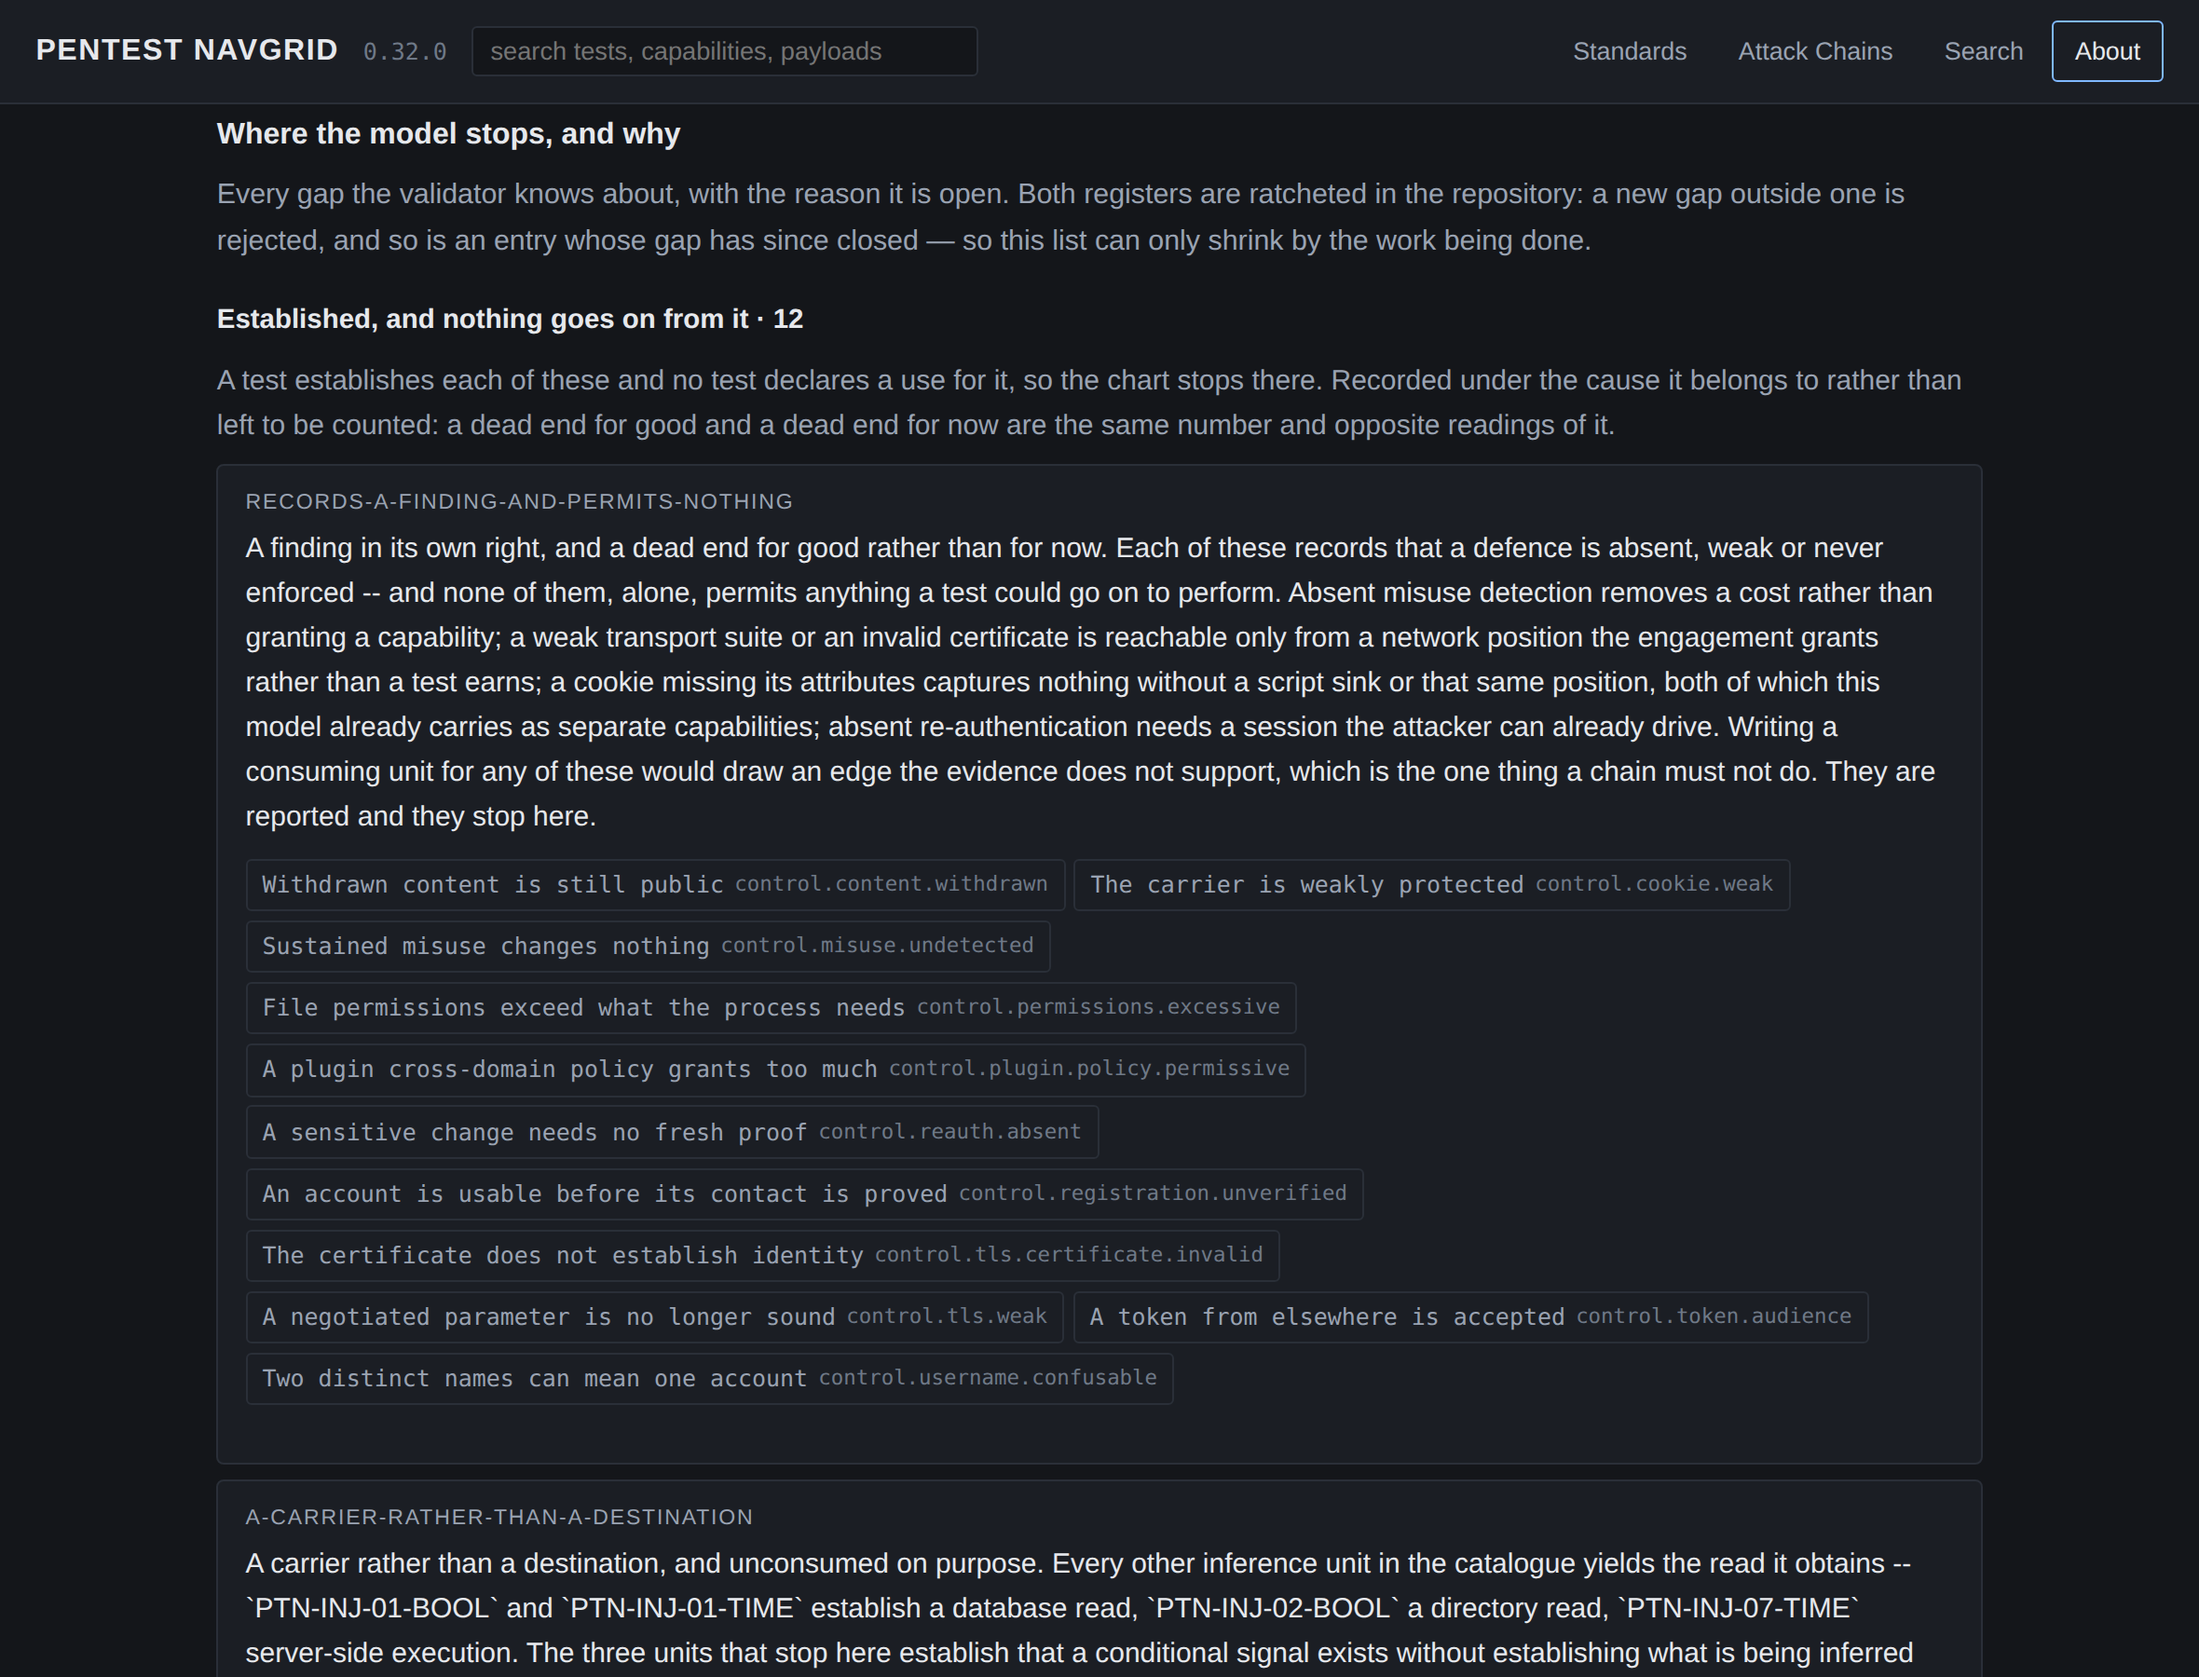
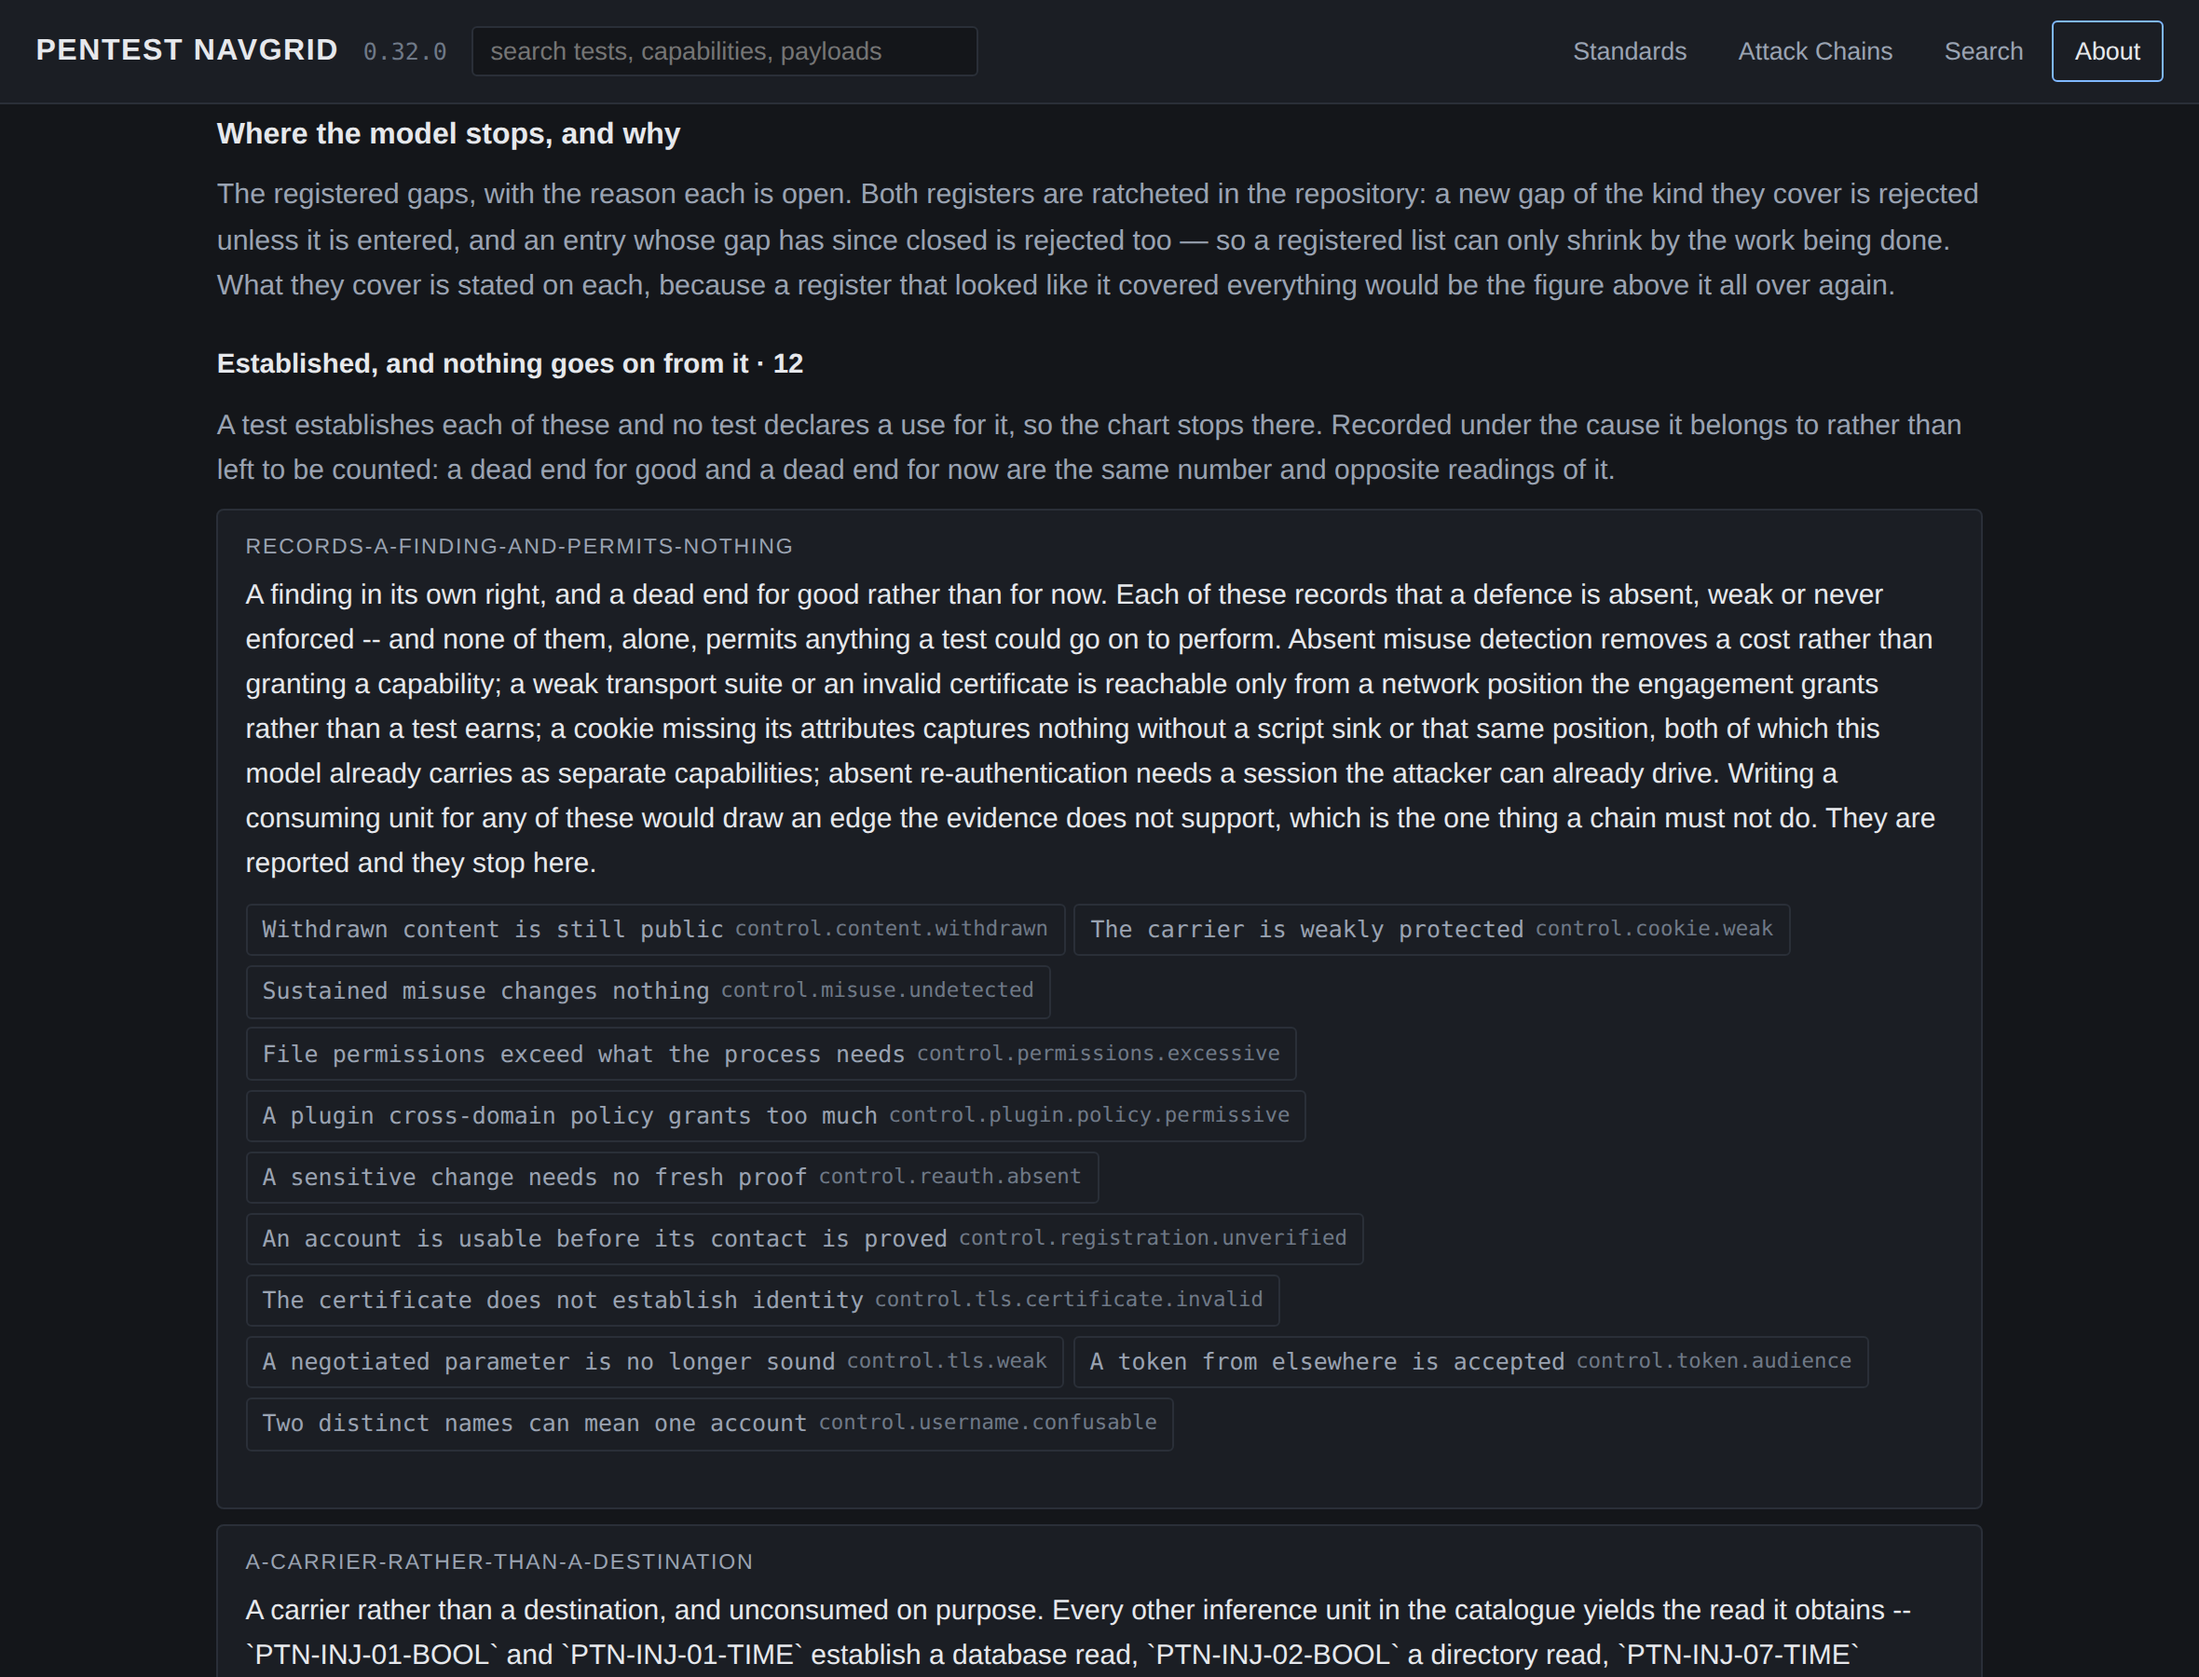
fix(status): scope the gap claim to what the registers actually cover
The section said it showed every gap the validator knows about. The
`unconsumed` gate ratchets chain-tier facts, because the tier is what says an
edge through a capability is an escalation -- so 8 of the 20 dead ends counted
two tables above it are topic-tier and outside the register entirely. A reader
met 20 and was shown 12, with nothing said about the difference.

That is the defect this whole section was written to remove -- a number nobody
can interrogate -- reproduced one level up by the copy that introduced it.

Both halves are fixed. The claim now says the registered gaps and states what
each register covers. The remainder is derived on the page rather than left to
be found by subtracting one number from another, and carries the smaller claim
its tier already makes: a topic-tier fact is consumed inside the topic that
produces it, so one nothing consumes is a technique whose result no sibling
declares rather than a chain that stopped. That it is not ratcheted is stated
where it is listed.

The suite asserts the two groups partition the published figure exactly, which
is the guard that stops the same gap opening again with a different number.

The README carried the same sentence and is corrected with it, and the figure
is retaken because the wording in it was the wording being fixed.

diff --git a/pentest_navgrid/artefact/app.js b/pentest_navgrid/artefact/app.js
@@ -3059,11 +3059,49 @@
     });
     if (!sections.length) return "";
     return "<h3>Where the model stops, and why</h3>" +
-      '<p class="lede">Every gap the validator knows about, with the reason it is ' +
-      "open. Both registers are ratcheted in the repository: a new gap outside one " +
-      "is rejected, and so is an entry whose gap has since closed — so this list " +
-      "can only shrink by the work being done.</p>" +
-      sections.join("");
+      '<p class="lede">The registered gaps, with the reason each is open. Both ' +
+      "registers are ratcheted in the repository: a new gap of the kind they cover " +
+      "is rejected unless it is entered, and an entry whose gap has since closed is " +
+      "rejected too — so a registered list can only shrink by the work being done. " +
+      "What they cover is stated on each, because a register that looked like it " +
+      "covered everything would be the figure above it all over again.</p>" +
+      sections.join("") + unregisteredStops();
+  };
+
+  /* The dead ends the register above does not cover, and the reason it does not.
+
+     The count two tables up is every capability no test uses; the register
+     explains the chain-tier ones. Printing the first beside the second and
+     saying nothing about the difference is exactly the defect this section was
+     written to remove -- a number the reader cannot interrogate -- reproduced
+     one level up. So the remainder is derived here rather than described, and
+     what it means is the smaller claim the tier already carries. */
+  var unregisteredStops = function () {
+    var listed = {};
+    REGISTERS.forEach(function (r) {
+      (D[r.key] || []).forEach(function (entry) {
+        (entry.facts || []).forEach(function (f) { listed[f] = true; });
+      });
+    });
+    var rest = (D.deadEnds || []).filter(function (f) { return !own(listed, f); });
+    if (!rest.length) return "";
+    var tiers = {};
+    rest.forEach(function (f) {
+      var tier = (get(D.facts, f) || {}).tier || "unlabelled";
+      tiers[tier] = true;
+    });
+    return "<h4>Established, and not covered by that register · " + rest.length + "</h4>" +
+      '<p class="muted">The register above ratchets the capabilities whose tier says ' +
+      "an edge through them is an escalation. These are " +
+      Object.keys(tiers).sort().join(" and ") + "-tier: consumed inside the topic " +
+      "that produces them, where the join links alternative techniques for one test " +
+      "rather than leading anywhere new. One nothing consumes is a smaller claim " +
+      "than a chain that stopped, and it is not ratcheted — which is stated here " +
+      "rather than left to be discovered by subtracting one number from another.</p>" +
+      '<div class="chips">' + rest.map(function (f) {
+        return '<a class="chip" href="' + href("capability", f) + '">' +
+          esc(factLabel(f)) + '<span class="c">' + esc(f) + "</span></a>";
+      }).join("") + "</div>";
   };
 
   var viewStatus = function () {

diff --git a/tests/test_artefact_ui.py b/tests/test_artefact_ui.py
@@ -2132,6 +2132,41 @@ class TheBuiltFileWorksInABrowser(unittest.TestCase):
                 for fid in entry["facts"]:
                     self.assertShows(flat, fid)
 
+    def test_every_capability_the_figure_counts_is_accounted_for_below_it(self):
+        """The defect this is written against, which is the one this whole
+        section exists to remove, reproduced one level up.
+
+        The table says 20 capabilities no test uses. The register explains the
+        chain-tier ones, because that is the only tier its gate ratchets, and
+        the copy above it claimed to explain every gap — so a reader met 20 and
+        was shown 12, with nothing said about the difference. The remainder is
+        derived on the page now, and this asserts the two groups partition the
+        figure exactly rather than merely both being present.
+        """
+        registered = {f for e in self.data["unconsumed"] for f in e["facts"]}
+        dead = set(self.data["deadEnds"])
+        rest = dead - registered
+        self.assertTrue(registered and rest, "one of the groups is empty here")
+        self.assertEqual(registered | rest, dead)
+
+        page = self.open("#/status")
+        flat = " ".join(self.driver.text().split())
+        self.assertShows(flat, "Established, and not covered by that register · "
+                               + str(len(rest)))
+        for fid in sorted(rest):
+            with self.subTest(fact=fid):
+                self.assertGreaterEqual(
+                    page.locator('a.chip[href="#/capability/' + fid + '"]').count(), 1
+                )
+
+    def test_the_page_does_not_claim_the_registers_cover_every_gap(self):
+        """They cover the tiers their gates ratchet, and saying otherwise is
+        the same false figure in words."""
+        flat = " ".join(self.text("#/status").split()).lower()
+        self.assertNotIn("every gap the validator knows about", flat)
+        # And the tier that is not ratcheted says so where it is listed.
+        self.assertShows(flat, "it is not ratcheted")
+
     def test_the_two_registers_are_reported_apart_from_each_other(self):
         """They answer opposite questions -- nothing goes on from here, and
         nothing arrives here yet -- so one list carrying both would leave a

diff --git a/README.md b/README.md
@@ -184,14 +184,17 @@ through one of a test's conditions and leaves the rest outstanding. It is a
 statement about what this file charts, never about a target.
 
 A separate page answers what the catalogue contains rather than where a route
-goes, and that is where the model is inspected. It states every gap the
-validator knows about **with the reason it is open**, per cause, in the words
-the repository records: a capability tests establish and nothing goes on to use,
-and one written down before any test reaches it. A count of either is a figure a
-reader cannot interrogate — 20 capabilities nothing uses reads as 20 things left
-undone, and most of them are dead ends for good, which is a different claim:
+goes, and that is where the model is inspected. It states the registered gaps
+**with the reason each is open**, per cause, in the words the repository
+records: a capability tests establish and nothing goes on to use, and one
+written down before any test reaches it. A count on its own is a figure a reader
+cannot interrogate — 20 capabilities nothing uses reads as 20 things left
+undone, and most of them are dead ends for good, which is a different claim. The
+page says what each register covers and accounts for the rest beside it, because
+a register that looked like it covered everything would be that same figure one
+level up:
 
-![The model page: both gap registers, each cause with the written reason it is open and the capabilities it covers](docs/assets/model-status.png)
+![The model page: the registered gaps, the first cause with the written reason it is open and the capabilities it covers](docs/assets/model-status.png)
 
 Under those, the capability map. Every capability in the file, in a column for
 the kind of thing it is, shaded by how far the chart reaches from it — green

diff --git a/docs/ROADMAP.md b/docs/ROADMAP.md
@@ -505,6 +505,18 @@ writing a consumer for it would draw an edge the evidence does not support.
 That distinction has been written down per cause since the register existed,
 and it was the one part of the model that never left the repository.
 
+What the page says about its own coverage is narrower than the first draft of
+it. The `unconsumed` gate ratchets chain-tier facts, because the tier is what
+says an edge through a capability is an escalation -- so 8 of the 20 dead ends
+are topic-tier and outside it. Printing the figure of 20 above a section that
+explained 12 and claimed to explain every gap was the same uninterrogable
+number one level up. The remainder is now derived on the page and carries the
+smaller claim its tier already makes: a topic-tier fact is consumed inside the
+topic that produces it, so one nothing consumes is a technique whose result no
+sibling declares rather than a chain that stopped. That it is not ratcheted is
+stated where it is listed, and the suite asserts the two groups partition the
+published figure exactly.
+
 Every topic now carries units, which was phase 3's job. The number to watch from
 here is charted units — those carrying `requires` and `yields` — which is phase
 5's, and the one every local chain in the artefact is derived from.
